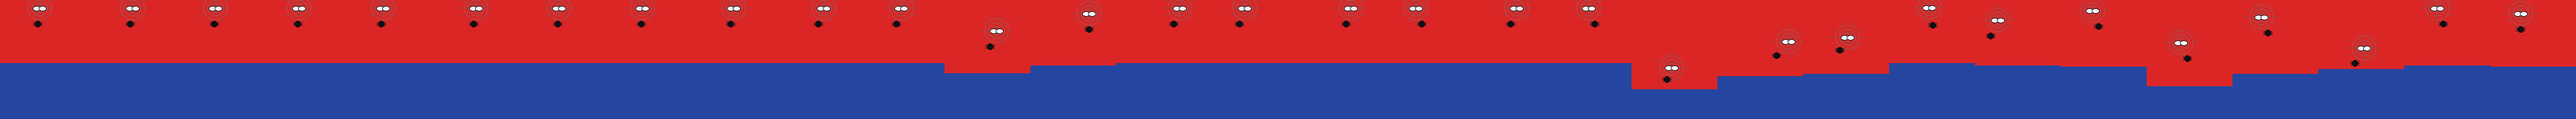
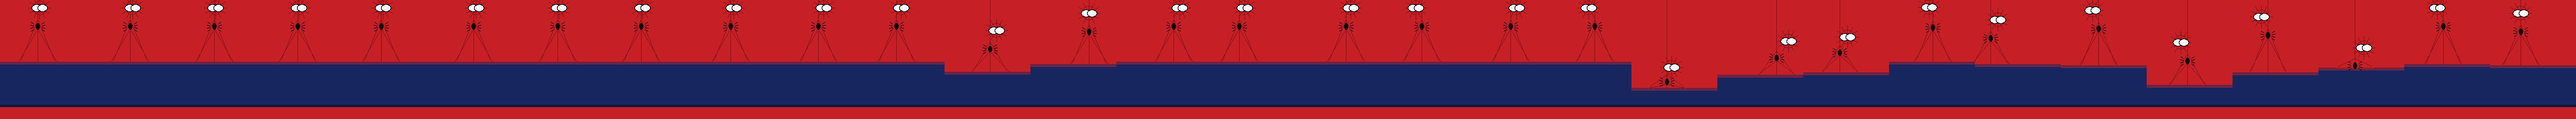
Reverted to commit 5d4d457d31af420d60096e65d9cbc2541f65514d

diff --git a/src/game/walkSprite.ts b/src/game/walkSprite.ts
@@ -35,7 +35,7 @@ export const SLASH_RECOVER_FRAME = 29;
 export const WALK_FOOT_Y = 189;
 
 // Cache buster — bump when the bake pipeline changes so stale caches are tossed.
-const SKIN_CACHE_VERSION = "v7-spider-bluelegs";
+const SKIN_CACHE_VERSION = "v6-spider-iconic";
 
 let sheet: HTMLImageElement | null = null;
 let sheetReady = false;
